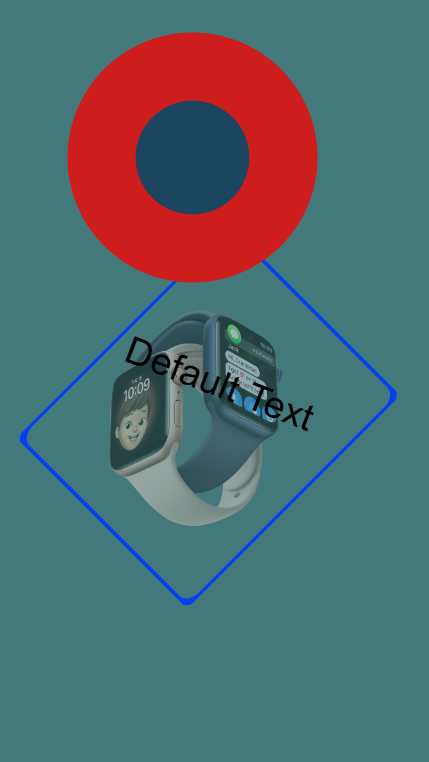
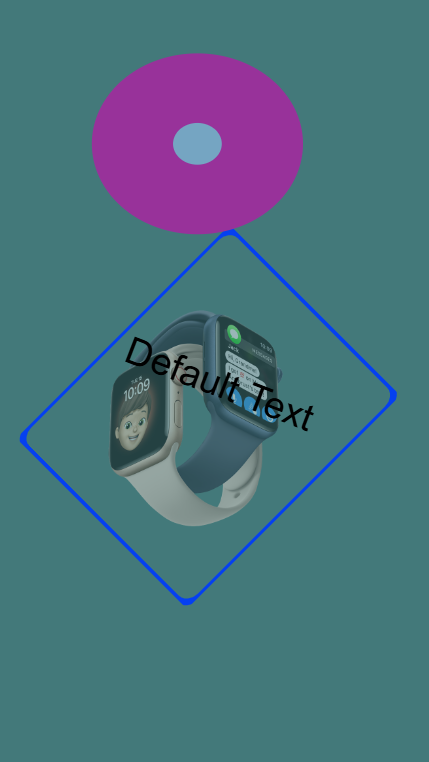
Fill and stroke color issue

diff --git a/AnimationProject/wwwroot/js/animations.js b/AnimationProject/wwwroot/js/animations.js
@@ -4280,6 +4280,14 @@ canvas.addEventListener("click", function (e) {
         opacitySlider.value = opacity;
         document.getElementById("opacityValue").textContent = opacity + "";
         opacityBadge.textContent = opacity;
+        if ($("#hdnFillStrockColorFlag").val() == '1') {
+            $("#hdnfillColor").val(imgHit.fillNoColor || "#FFFFFF");
+            $("#hdnStrockColor").val(imgHit.strokeNoColor || "#FFFFFF");
+            $("#favFillcolor").val($("#hdnfillColor").val());
+            $("#favStrockcolor").val($("#hdnStrockColor").val());
+            $("#hdnFillStrockColorFlag").val('2');
+        }
+       
     }
     else {
                 // — clicked empty space —
@@ -4308,11 +4316,15 @@ canvas.addEventListener("click", function (e) {
     if (selectedType == "Shape") {
         $("#hdnfillNoColorStatus").val(imgHit.fillNoColorStatus || false);
         $("#hdnstrokeNoColorStatus").val(imgHit.strokeNoColorStatus || false);
-        $("#hdnfillColor").val(imgHit.fillNoColor || "#FFFFFF");
-        $("#hdnStrockColor").val(imgHit.strokeNoColor || "#FFFFFF");
+        //if ($("#hdnfillColor").val() == imgHit.fillNoColor) {
+        //    $("#hdnfillColor").val(imgHit.fillNoColor || "#FFFFFF");
+        //}
+        //if ($("#hdnStrockColor").val() == imgHit.strokeNoColor) {
+        //    $("#hdnStrockColor").val(imgHit.strokeNoColor || "#FFFFFF");
+        //}
        
-        $("#favFillcolor").val($("#hdnfillColor").val());
-        $("#favStrockcolor").val($("#hdnStrockColor").val());
+        //$("#favFillcolor").val($("#hdnfillColor").val());
+        //$("#favStrockcolor").val($("#hdnStrockColor").val());
 
         document.getElementById('ddlStrokeWidth').value = (imgHit.strokeWidth || 3).toString();
         document.getElementById("noColorCheck").checked = toBool(imgHit.fillNoColorStatus)||false;
@@ -4322,7 +4334,7 @@ canvas.addEventListener("click", function (e) {
         const noStrokeChecked = document.getElementById("noColorCheck2").checked;
         if (noColorChecked) {
             updateSelectedImageColors(
-                "none", noStrokeChecked ? "none" : $("#hdnStrockColor").val()
+                "none", noStrokeChecked ? "none" : $("#hdnStrockColor").val(), document.getElementById("ddlStrokeWidth").value || 2
             );
         }
 
@@ -4330,7 +4342,7 @@ canvas.addEventListener("click", function (e) {
         if (noStrokeChecked) {
             updateSelectedImageColors(
                 noColorChecked ? "none" : $("#hdnfillColor").val(),
-                "none"
+                "none", document.getElementById("ddlStrokeWidth").value || 2
             );
         }
 
